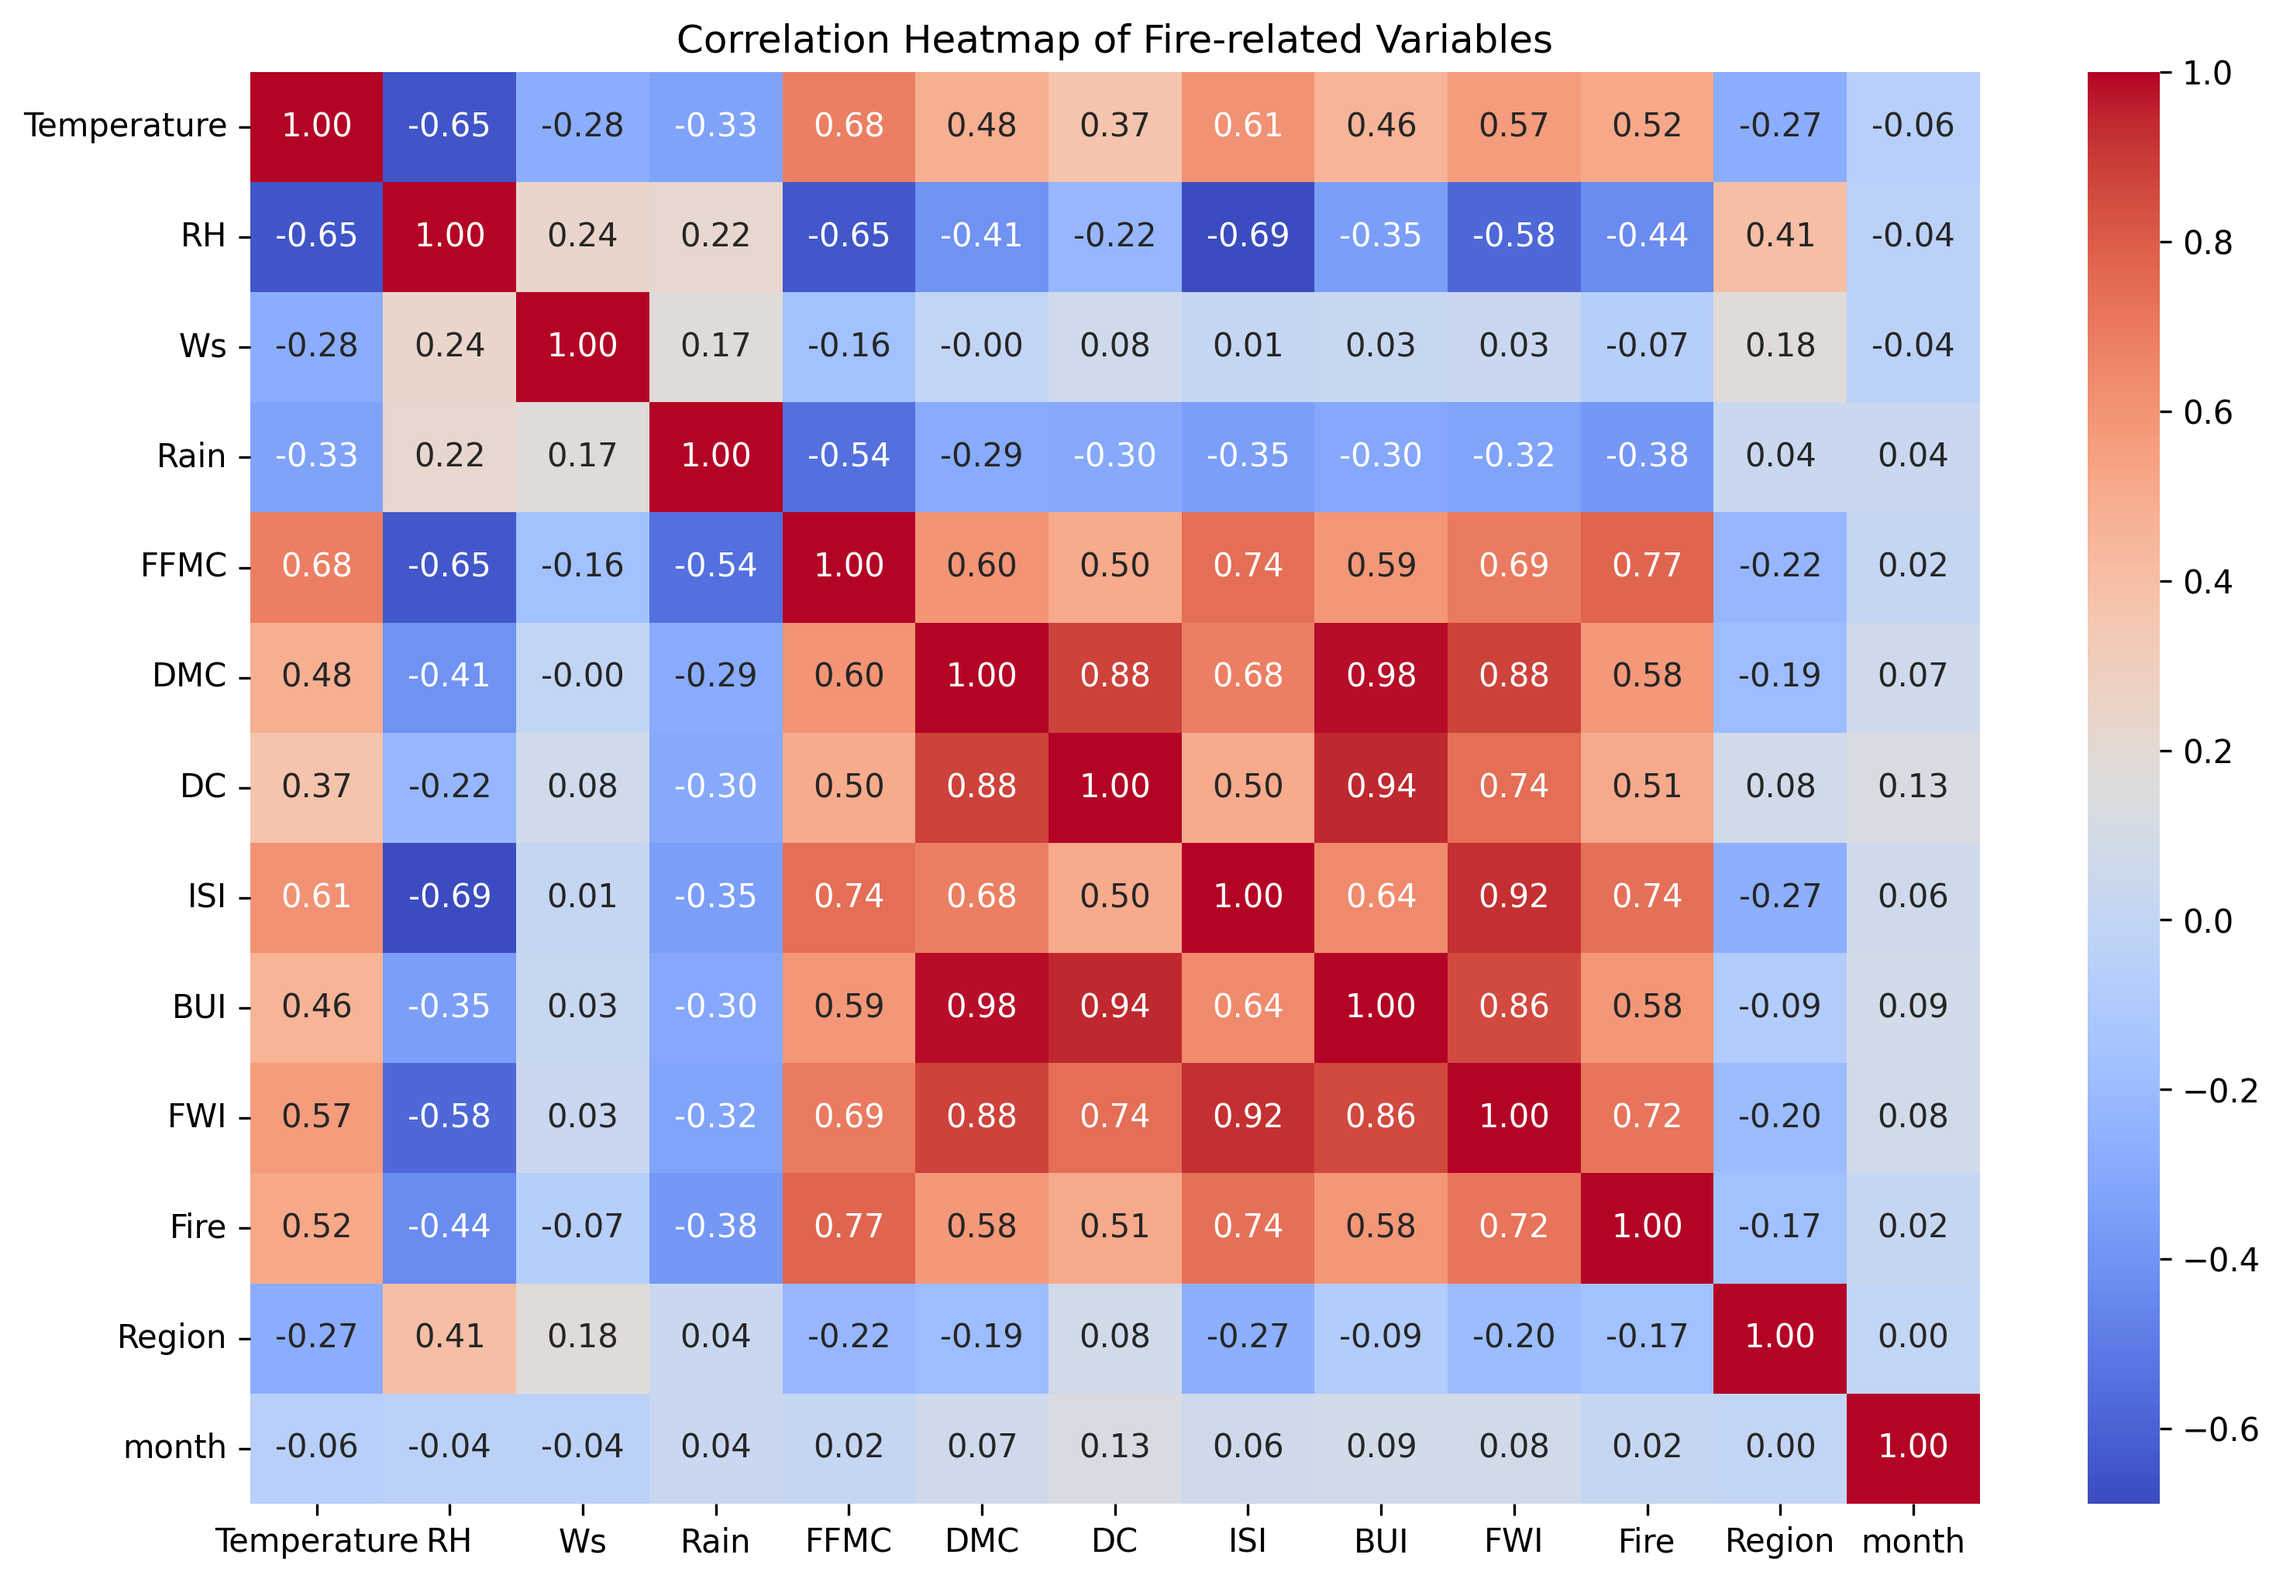
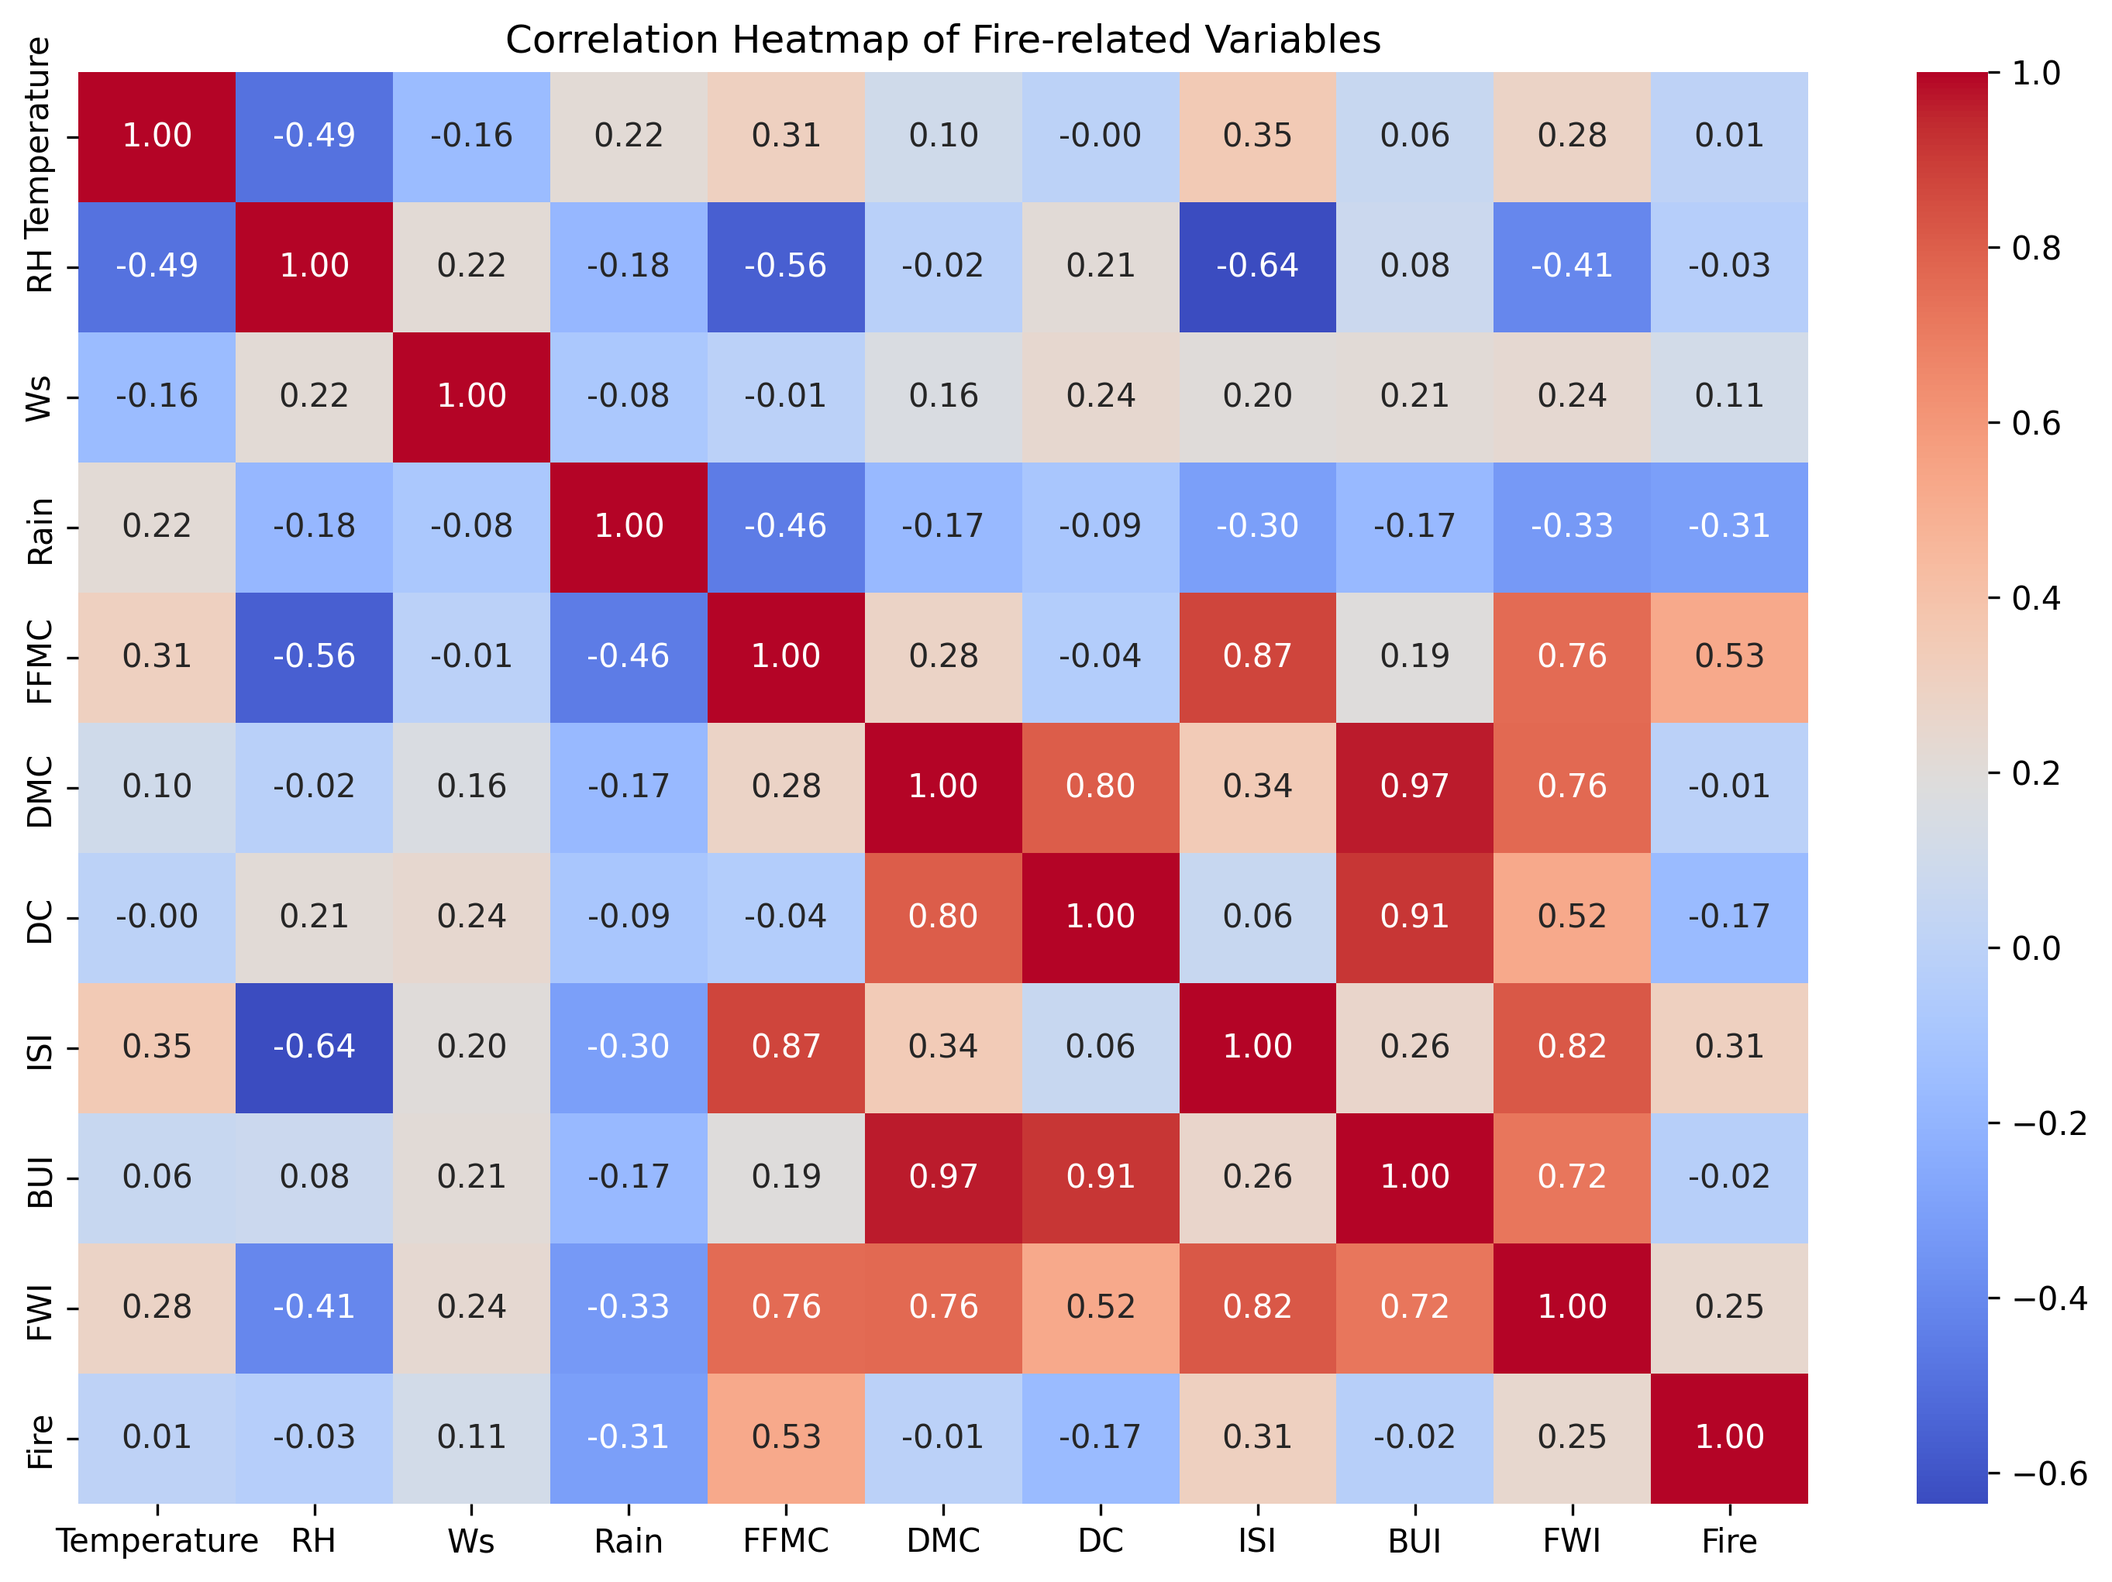
graphs and kmean

diff --git a/code/retrieve_data.py b/code/retrieve_data.py
@@ -3,6 +3,8 @@ import matplotlib.pyplot as plt
 import seaborn as sns
 import numpy as np
 from sklearn import preprocessing
+from sklearn.preprocessing import StandardScaler
+from sklearn.cluster import KMeans
 
 # Create columns and import data
 data_colums = ['day', 'month', 'year', 'Temperature', 'RH', 'Ws', 'Rain', 'FFMC', 'DMC', 'DC', 'ISI', 'BUI', 'FWI', 'Classes', 'Region']
@@ -17,6 +19,20 @@ data_set["month"] = pd.to_datetime(data_set[["year","month","day"]]).dt.month
 
 # Remove data that isnt needed
 #data_set.drop['Classes']
+
+# K-means
+features = ["Temperature", "RH", "Ws", "Rain", "FFMC", "DMC", "DC", "ISI", "BUI", "FWI", "Fire"]
+X = data_set[features]
+
+scaler = StandardScaler()
+X_scaled = scaler.fit_transform(X)
+
+kmeans = KMeans(n_clusters=2, random_state=42, n_init=10)
+clusters = kmeans.fit_predict(X_scaled)
+
+# Add cluster labels
+data_set["Cluster"] = clusters
+print(data_set["Cluster"].value_counts())
 
 # minimum and maximum allowed values 
 min_max_values = {
@@ -66,7 +82,7 @@ def generate_histogram(column):
         plt.xlabel(c)
         plt.grid(False)
         plt.savefig("figure/"+c+"_histogram.png", dpi=300, bbox_inches="tight")
-        plt.close()
+        #plt.close()
 
 #generate_histogram(['Region','Fire', 'Temperature' ,'RH', 'Ws', 'Rain', 'FFMC', 'DMC', 'DC', 'ISI', 'BUI', 'FWI'])
 
@@ -81,14 +97,24 @@ def temp_over_time():
     plt.grid(True)
     plt.savefig("temperature_plot.png", dpi=300, bbox_inches="tight")
     #plt.show()
-    plt.close()
+    #plt.close()
 
 #temp_over_time()
 
 #Heatmap
 def heatmap():
+    for cluster_id in sorted(data_set["Cluster"].unique()):
+        subset = data_set[data_set["Cluster"] == cluster_id]
+        corr = subset[features].corr()
+    
+        plt.figure(figsize=(12,8))
+        sns.heatmap(corr, annot=False, cmap="coolwarm", vmin=-1, vmax=1)
+        plt.title(f"Correlation Heatmap for Cluster {cluster_id}")
+        plt.savefig("heatmap_kmeans.png", dpi=300, bbox_inches="tight")
+        plt.close()
+
     plt.figure(figsize=(12,8))
-    corr = data_set[['Temperature', 'RH', 'Ws', 'Rain', 'FFMC', 'DMC', 'DC', 'ISI', 'BUI', 'FWI','Fire', 'Region', 'month']].corr()
+    corr = subset[features].corr()
     sns.heatmap(corr, annot=True, cmap="coolwarm", fmt=".2f")
     plt.title("Correlation Heatmap of Fire-related Variables")
     plt.savefig("heatmap.png", dpi=300, bbox_inches="tight")
@@ -100,8 +126,44 @@ def heatmap():
 def scatterplot_temp_RH():
     plt.figure(figsize=(10,6))
     sns.scatterplot(x="Temperature", y="RH", hue="Classes", data=data_set, alpha=0.7, palette={"fire": "red", "not fire": "blue"})
+    plt.title("K-Means Clusters (k=2) on Temperature vs Humidity")
+    plt.savefig("scatterplot_kmeans.png", dpi=300, bbox_inches="tight")
+    plt.close()
+
+    plt.figure(figsize=(10,6))
+    sns.scatterplot(x="Temperature", y="RH", hue="Classes", data=data_set, alpha=0.7, palette={"fire": "red", "not fire": "blue"})
     plt.title("Temperature vs Relative Humidity (Fire vs No Fire)")
     plt.savefig("scatterplot.png", dpi=300, bbox_inches="tight")
     plt.close()
 
 #scatterplot_temp_RH()
+
+# Boxplot Fire/no fire
+def boxplot_fnof():
+    plt.figure(figsize=(12,6))
+    sns.boxplot(x="Fire", y="Temperature", data=data_set, palette="coolwarm")
+    plt.title("Temperature Distribution (Fire vs No Fire)")
+    plt.xlabel("Fire (1=Yes, 0=No)")
+    plt.ylabel("Temperature")
+    plt.savefig("boxplot_temp.png", dpi=300, bbox_inches="tight")
+    plt.close()
+
+    plt.figure(figsize=(12,6))
+    sns.boxplot(x="Fire", y="RH", data=data_set, palette="coolwarm")
+    plt.title("Relative Humidity Distribution (Fire vs No Fire)")
+    plt.xlabel("Fire (1=Yes, 0=No)")
+    plt.ylabel("Relative Humidity (%)")
+    plt.savefig("boxplot_hum.png", dpi=300, bbox_inches="tight")
+    plt.close()
+boxplot_fnof()
+
+# FWI Distribution plot
+def displot_FWI():
+    plt.figure(figsize=(12,6))
+    sns.kdeplot(data=data_set, x="FWI", hue="Fire", fill=True, common_norm=False, palette="coolwarm", alpha=0.6)
+    plt.title("FWI Distribution for Fire vs No Fire")
+    plt.xlabel("FWI")
+    plt.ylabel("Density")
+    plt.savefig("displot_FWI.png", dpi=300, bbox_inches="tight")
+    plt.close()
+displot_FWI()
